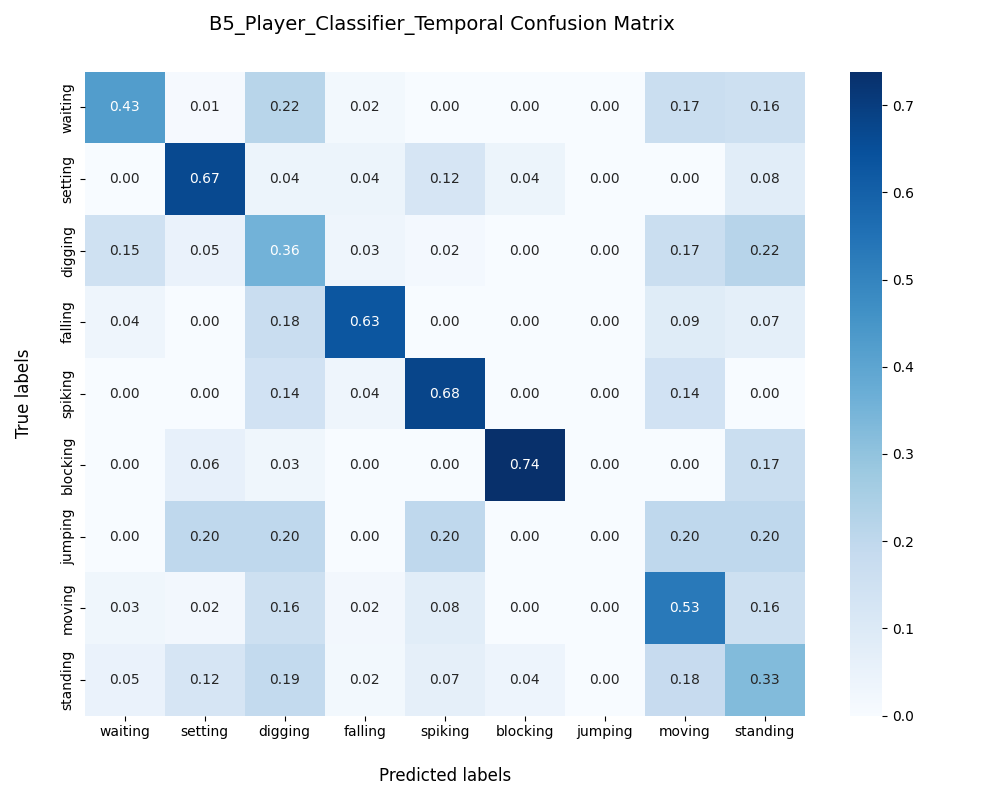
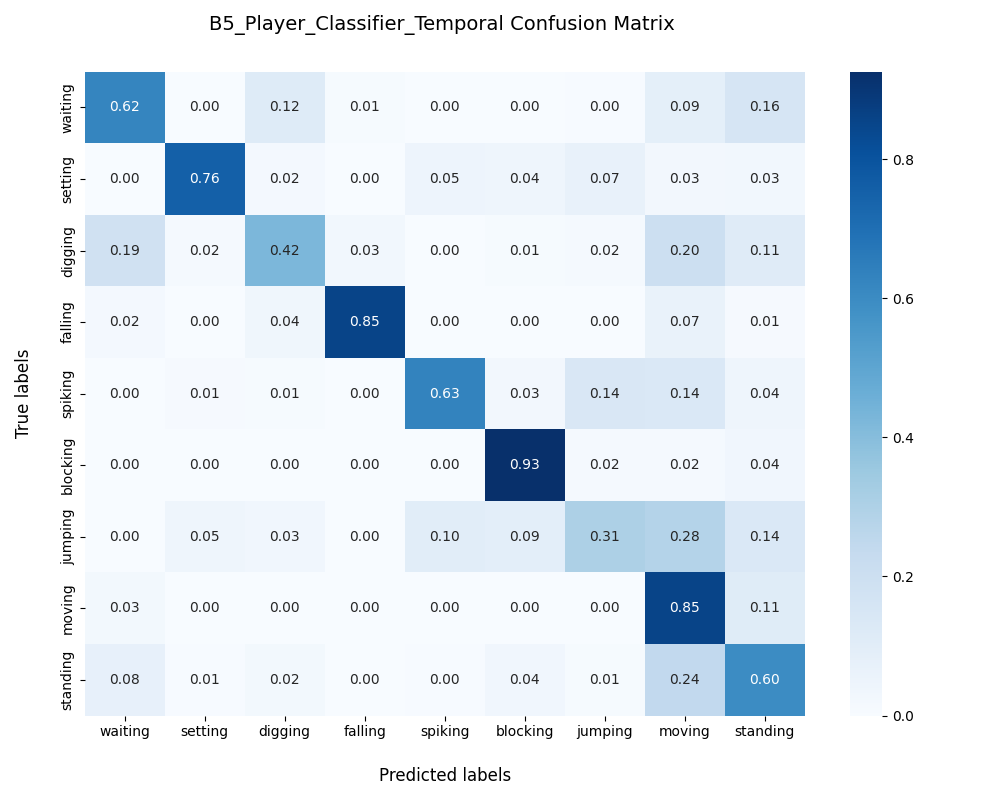
Results from Kaggle run for baseline 5 player classifier v4

diff --git a/train/b5_player_classifier_temporal_train.py b/train/b5_player_classifier_temporal_train.py
@@ -53,20 +53,20 @@ for label,index in player_action_dct.items():
 
 
 # DataLoaders
-train_dataset=VolleyballPersonDataset(videos_root,annot_root,train_ids,one_frame=True,player_label=True,train=True)
+train_dataset=VolleyballPersonDataset(videos_root,annot_root,train_ids,one_frame=False,player_label=True,train=True)
 train_loader=DataLoader(train_dataset,batch_size=batch_size,shuffle=True,num_workers=num_workers,pin_memory=pin_memory)
 
-val_dataset=VolleyballPersonDataset(videos_root,annot_root,val_ids,one_frame=True,player_label=True,train=False)
+val_dataset=VolleyballPersonDataset(videos_root,annot_root,val_ids,one_frame=False,player_label=True,train=False)
 val_loader=DataLoader(val_dataset,batch_size=batch_size,shuffle=False,num_workers=num_workers,pin_memory=pin_memory)
 
-test_dataset=VolleyballPersonDataset(videos_root,annot_root,test_ids,one_frame=True,player_label=True,train=False)
+test_dataset=VolleyballPersonDataset(videos_root,annot_root,test_ids,one_frame=False,player_label=True,train=False)
 test_loader=DataLoader(test_dataset,batch_size=batch_size,shuffle=False,num_workers=num_workers,pin_memory=pin_memory)
 
 # Setup
 device = torch.device("cuda" if torch.cuda.is_available() else "cpu")
 weights = torch.tensor(weights , dtype=torch.float32).to(device)
 backbone=B3_Player_Classifier(num_player_actions)
-backbone.load_state_dict(torch.load('checkpoints/b3_player_classifier_best_model_checkpoint.pth',map_location=device,weights_only=True)['model_state_dict'])
+backbone.load_state_dict(torch.load('/kaggle/input/datasets/myahiia/b3-player-classifier-dataset/Group-Activity-Recognition/checkpoints/b3_player_classifier_best_model_checkpoint.pth',map_location=device,weights_only=True)['model_state_dict'])
 model=B5_Player_Classifier_Temporal(backbone,num_player_actions)
 model=model.to(device)
 criterion = nn.CrossEntropyLoss(weight=weights, ignore_index=-1)
@@ -93,7 +93,7 @@ def evaluate(model,criterion,loader,device,pred_need):
             #b,f,12,3,w,h   b,f,12,    b,1
             output=model(imgs) #b,p,9
             output=output.reshape(-1,9) #b*12,9
-            labels=players_labels[:,0,:] #middel frame label b,12
+            labels=players_labels[:,4,:] #middel frame label b,12
             labels=labels.reshape(-1) #b*12
             loss=criterion(output,labels)
             loss_sum+=loss.item()
@@ -145,7 +145,7 @@ for epoch in range(n_epoch):
         #b,f,12,3,w,h   b,f,12,    b,1
         output=model(imgs) #b,p,9
         output=output.reshape(-1,9) #b*12,9
-        labels=players_labels[:,0,:] #middel frame label b,12
+        labels=players_labels[:,4,:] #middel frame label b,12
         labels=labels.reshape(-1) #b*12
         loss=criterion(output,labels)
         optimizer.zero_grad()
@@ -214,3 +214,5 @@ logger.info(f"Create Report in {output_path}")
 final_report.creat_report()
 logger.info(f"Create Confusion Matrix in {output_path}")
 final_report.create_confusion_matrix()
+
+        
